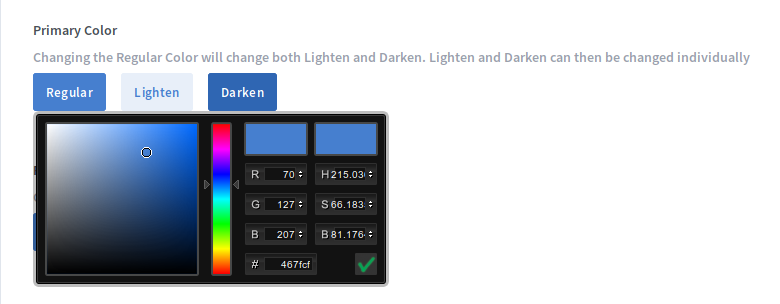
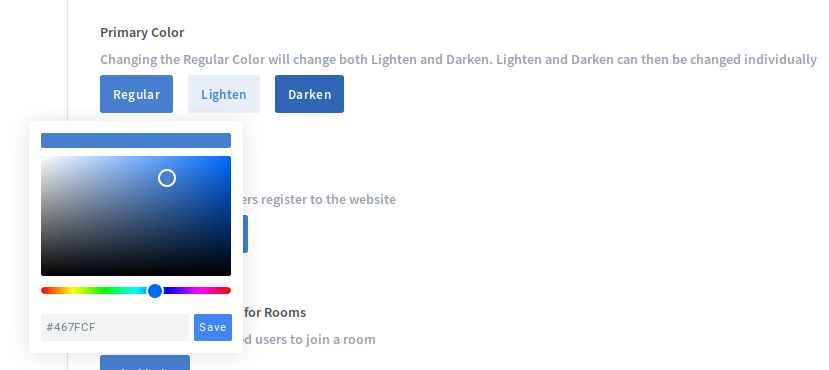
Greenlight Release v2.2 (#108)
* Added information regarding Room Limit setting

* Updated OAuth docs

* Removed references to Twitter Auth

* Updated color picker image

diff --git a/_posts/2019-04-15-gl-customize.md b/_posts/2019-04-15-gl-customize.md
@@ -379,23 +379,27 @@ Login to your Google account, and click the following link
 
 If you want to see the documentation behind OAuth2 at Google, click the link [https://developers.google.com/identity/protocols/OAuth2](https://developers.google.com/identity/protocols/OAuth2).
 
-![Greenlight-google-plus-api](/images/gl-google-plus-api.png)
+First, create a Project click the "CREATE" link.
 
-First, enable the "Google+ API".
+In the menu on the left, click "Credentials".
 
-   1. Click Dashboard
-   1. Click "+Enable APIs"
-   1. Click "Google+ API"
-   1. Click "Enable"
-   1. Click "Credentials"
+Next, click the "OAuth consent screen" tab below the "Credentials" page title.
 
- Next,
+From here take the following steps:
+1. Choose any application name e.g "Greenlight"
+2. Set "Authorized domains" to your hostname eg "hostname" where hostname is your hostname
+3. Set "Application Homepage link" to your hostname e.g "http://hostname/b/" where hostname is your hostname
+4. Set "Application Privacy Policy link" to your hostname e.g "http://hostname/b/" where hostname is your hostname
+5. Click "Save"
 
-  1. Click "Create credentials
-  1. Select "OAuth client ID
-  1. Select "Web application"
-  1. Under "Authorized redirect URIs" enter "http://hostname/b/auth/google/callback" where hostname is your hostname
-  1. Click "Create"
+Next,
+
+1. Click "Create credentials"
+2. Select "OAuth client ID"
+3. Select "Web application"
+4. Choose any name e.g “bbb-endpoint”
+5. Under "Authorized redirect URIs" enter "https://hostname/b/auth/google/callback" where hostname is your hostname
+6. Click "Create"
 
 A window should open with your OAuth credentials. In this window, copy client ID and client secret to the `.env` file so it resembles the following (your credentials will be different).
 
@@ -415,63 +419,27 @@ GOOGLE_OAUTH2_HD=example.com
 You will need an Office365 account to create an OAuth 2 key and secret. This will allow Greenlight users to authenticate with their own Office365 accounts.
 
 To begin, head over to the following site and sign in to your Office365 account:
-[https://developer.microsoft.com/en-us/graph](https://developer.microsoft.com/en-us/graph)
+[https://portal.azure.com/](https://portal.azure.com/)
 
-Click on the tab that says “My Apps” and you should get redirected to the applications portal:
+In the menu on the left, click "Azure Active Directory".
 
-![](https://d2mxuefqeaa7sj.cloudfront.net/s_862F4C65DCBBF32F66208EA7FF25C153F80CC5FED653F7FCC2E693F7C7577A33_1539186511422_image.png)
+Under the "Manage" tab, click "App registrations".
 
 From here take the following steps:
+1. Click "New Registration"
+2. Choose any application name e.g “bbb-endpoint”
+3. Set the Redirect URI to your url (must be https): “https://hostname/b/auth/office365/callback” 
+4. Click "Register"
 
-1. Click “Add an app”
-1. Choose any application name e.g “bbb-endpoint” and click “Create”
-1. Under the “Profile Header”, add the url (**must be https**): [](http://hostname/b/auth/microsoft_office365/callback)       “https://hostname/b/auth/microsoft_office365/callback"
-  ![](https://d2mxuefqeaa7sj.cloudfront.net/s_862F4C65DCBBF32F66208EA7FF25C153F80CC5FED653F7FCC2E693F7C7577A33_1539200454484_image.png)
+Once your application has been created, Under the "Overview" tab, copy your "Application (client) ID" into the `OFFICE365_KEY` environment variable in your `.env` file.
 
-1. Under “Platforms”, click “Add Platform”
-    ![](https://d2mxuefqeaa7sj.cloudfront.net/s_862F4C65DCBBF32F66208EA7FF25C153F80CC5FED653F7FCC2E693F7C7577A33_1539200371889_image.png)
+Finally, click the "Certificates & secrets" under the "Manage" tab
 
-    Select the option to add a “Web” platform, check the option to “Allow Implicit Flow”, and add the Home page URL as a Redirect URL.
+From here take the following steps:
+1. Click "New client secret"
+2. Choose the "Never" option in the "Expires" option list
+3. Copy the value of your password into the `OFFICE365_SECRET` environment variable in your `.env` file 
 
-    ![](https://d2mxuefqeaa7sj.cloudfront.net/s_862F4C65DCBBF32F66208EA7FF25C153F80CC5FED653F7FCC2E693F7C7577A33_1539200628951_image.png)
-
-1. Under “Application Secrets”, select the option to “Generate New Password”. 
-    ![](https://d2mxuefqeaa7sj.cloudfront.net/s_862F4C65DCBBF32F66208EA7FF25C153F80CC5FED653F7FCC2E693F7C7577A33_1539200880946_image.png)
-
-    This will correspond to the `OFFICE365_SECRET` environment variable.
-
-    The Application Id can be found under “Properties”, and will correspond to the `OFFICE365_KEY` environment variable.
-
-    ![](https://d2mxuefqeaa7sj.cloudfront.net/s_862F4C65DCBBF32F66208EA7FF25C153F80CC5FED653F7FCC2E693F7C7577A33_1539201241095_image.png)
-
-    Copy both values into the `.env` file:
-
-    ```
-      OFFICE365_KEY=df99f6f6-2953-4f3c-b9a1-0b407c1373ba
-      OFFICE365_SECRET=qenvRYWR5-}(vizOPR7926~
-    ```
-
-1. Save the Changes
-
-### Twitter OAuth2
-
-You need a Twitter account to create an OAuth 2 client ID and client secret. The will enable users of Greenlight to authenticate with their own Twitter account (not yours).
-
-Login to your Twitter account, and click the following link: [https://apps.twitter.com/](https://apps.twitter.com/).
-
-Next,
-
-  1. Click "Create New App"
-  1. Under "Callback URL" enter "http://hostname/b/auth/twitter/callback" where hostname is your hostname
-  1. Click "Create your Twitter application"
-  1. Click "Keys and Access Tokens" tab
-
-You should see a key and secret.  Add the `Consumer Key (API Key)` (not the OwnerID) and `Consumer Secret (API Secret)` to the `.env` file (your values will be different).
-
-~~~
-TWITTER_ID=SOj8AkIdeqJuP2asfbbGSBk0
-TWITTER_SECRET=elxXJZqPVexBFf9ZJsafd4UTSzpr5AVmcH7Si5JzeHQ9th
-~~~
 
 ### LDAP Auth
 
@@ -510,6 +478,10 @@ See [Applying `.env` Changes](#applying-env-changes) section to enable your new 
 If you are using an ActiveDirectory LDAP server, you must determine the name of your user id parameter to set `LDAP_UID`. It is commonly 'sAMAccountName' or 'UserPrincipalName'.
 
 LDAP authentication takes precedence over all other providers. This means that if you have other providers configured with LDAP, clicking the login button will take you to the LDAP sign in page as opposed to presenting the general login modal.
+
+### Twitter OAuth2
+
+Twitter Authentication is deprecated and will be phased out in a future release.
 
 # Troubleshooting Greenlight
 

diff --git a/_posts/2019-04-15-gl-overview.md b/_posts/2019-04-15-gl-overview.md
@@ -14,7 +14,7 @@ Greenlight 2.0 (referred hereafter as simply "Greenlight") is a Ruby on Rails ap
 
 For the end users, Greenlight provides:
 
-  * Authentication via Twitter, Google, Office365 via OAuth2, or the ability to create an account
+  * Authentication via Google, Office365, LDAP, or local accounts
   * A default personal room with a permanent invite URL
   * The ability to create multiple rooms
   * An interface to view, manage, and share recordings
@@ -39,12 +39,12 @@ As BigBlueButton and Greenlight are open-source projects, we encourage other dev
 
 ### Sign up / Login
 
-Greenlight has full support for managing user accounts. It currently supports three types of user authentication:
+Greenlight has full support for managing user accounts. It currently supports four types of user authentication:
 
 * In-application (Greenlight)
 * Google OAuth2
-* Twitter OAuth2
 * Office365 OAuth2
+* LDAP
 
 ![Greenlight Login](/images/greenlight/login.png)
 

diff --git a/_posts/2019-04-15-gl-admin.md b/_posts/2019-04-15-gl-admin.md
@@ -165,6 +165,13 @@ By default, users that are not signed in can join any Room that has been started
 
 ![Greenlight Administrator Room Authentication](/images/greenlight/admin_room_auth.png)
 
+### Number of Rooms per User
+
+By default, users are allowed to create and manage as many rooms as they like. Using this setting, an Administrator can limit the number of rooms that the user can create. If the user is already above the limit and the setting is changed, the user will not be able to start any sessions for the rooms that are above the limit.
+
+To allow the users to create as many rooms as they would like, select the option furthest to the right (15+).
+
+![Greenlight Administrator Room Limit](/images/greenlight/admin_room_limit.png)
 
 See also
   * [Overview](/greenlight/gl-overview.html)
